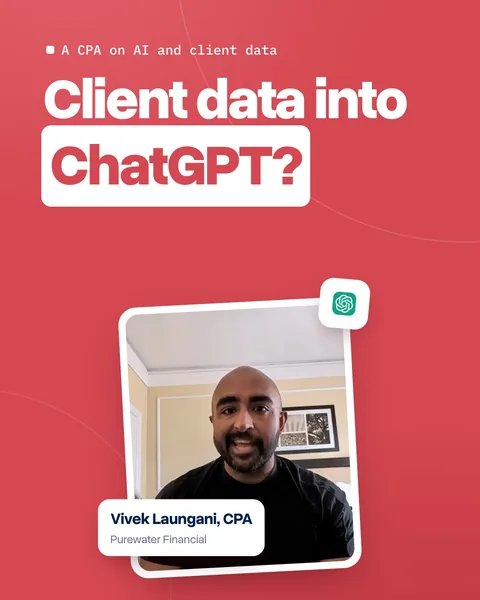
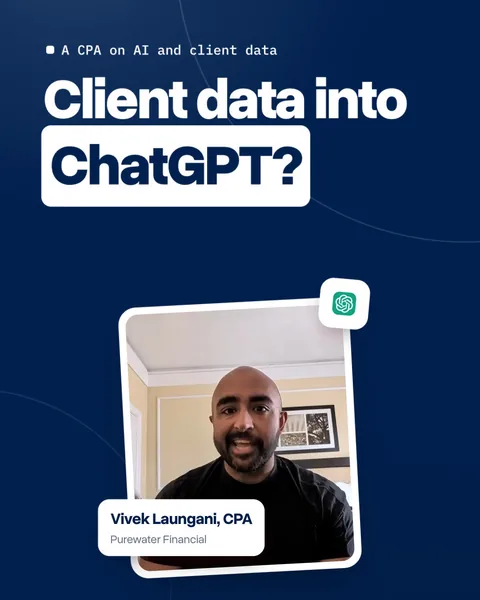
Customer stories: Vivek's and Keyonna's covers on navy
- The coral ground of both static covers is now the brand navy (#01204E).
  The white headline and eyebrow are unchanged; the words in the white
  boxes and Keyonna's play mark go from coral to navy. Arcs, glow,
  vignette and shadows carry over; the photos, name chips and the
  ChatGPT mark are untouched.
- scripts/home/cover_recolor.py does the recolor at build time, switched
  on per story with "cover_ink" in home_stories.py. The source covers
  are not modified.
- Jordan's cover, the hover loops and the modal videos are unchanged.

diff --git a/scripts/home/cover_recolor.py b/scripts/home/cover_recolor.py
@@ -1,0 +1,98 @@
+"""Recolor a story cover's coral ground to the brand navy, in place of the
+October covers' red (#D54851) art.
+
+Every pixel outside the speaker's photo is read as a mix of three things: the
+coral ground, white laid over it (the headline, the boxes, the arcs, the glow,
+the frame), and shade under it (the drop shadows and the vignette):
+
+    pixel = shade * (coral * (1 - white) + #fff * white)
+
+The same pixel is then rebuilt with navy for coral. White stays white, so the
+headline, the eyebrow and the frame are untouched; coral words in a white box
+come out navy on white; anti-aliasing, arcs, glow and shadows carry over. Pixels
+the mix cannot explain (the name chip's navy and grey text, the ChatGPT mark's
+green) are left as they are, and so is the photo inside the white frame.
+"""
+import numpy as np
+from PIL import Image, ImageDraw, ImageFilter
+
+CORAL = np.array([213, 72, 81], float)  # the covers' flat ground, sampled
+WHITE = np.array([255, 255, 255], float)
+INKS = {"navy": np.array([1, 32, 78], float)}  # --ink #01204E
+
+_A = np.stack([CORAL, WHITE - CORAL], 1)  # 3x2: pixel = u*coral + v*(white-coral)
+_PINV = np.linalg.pinv(_A)
+
+
+def _decompose(p):
+    """(shade, white, residual) per pixel; residual 99 where the mix is not physical."""
+    uv = np.einsum("hwc,kc->hwk", p, _PINV)
+    fit = np.einsum("hwk,ck->hwc", uv, _A)
+    res = np.sqrt(((p - fit) ** 2).mean(-1))
+    u = uv[..., 0]
+    a = uv[..., 1] / np.maximum(u, 1e-3)
+    # shadows read slightly below zero white; green and teal read as negative shade
+    ok = (u > 0.04) & (a > -0.3) & (a < 1.06)
+    return np.clip(u, 0, 1.2), np.clip(a, 0, 1), np.where(ok, res, 99)
+
+
+def _runs(line, min_len=6):
+    d = np.diff(np.concatenate([[0], line.astype(np.int8), [0]]))
+    s, e = np.nonzero(d == 1)[0], np.nonzero(d == -1)[0]
+    return [(a, b) for a, b in zip(s, e) if b - a >= min_len]
+
+
+def _fit(t, x):
+    """x = m*t + c, refitted without the points far off the first fit."""
+    t, x = np.asarray(t, float), np.asarray(x, float)
+    m, c = np.polyfit(t, x, 1)
+    keep = np.abs(x - (m * t + c)) < 3
+    return np.polyfit(t[keep], x[keep], 1)
+
+
+def _photo_mask(white, y0=900, band=(8, 40), pad=2):
+    """The (slightly rotated) photo inside the white frame, as the quad between
+    the frame's four inner edges. Each edge is a line fitted over the rows or
+    columns where both opposite bands of the frame are plain, away from the
+    name chip and the corner badge."""
+    h, w = white.shape
+    left, right, top, bottom = [], [], [], []
+    for y in range(y0, h):
+        r = _runs(white[y])
+        if len(r) == 2 and all(band[0] <= b - a <= band[1] for a, b in r) and r[1][0] - r[0][1] > 200:
+            left.append((y, r[0][1]))
+            right.append((y, r[1][0]))
+    for x in range(w):
+        r = _runs(white[y0:, x])
+        if len(r) == 2 and all(band[0] <= b - a <= band[1] for a, b in r) and r[1][0] - r[0][1] > 200:
+            top.append((x, r[0][1] + y0))
+            bottom.append((x, r[1][0] + y0))
+    if min(map(len, (left, right, top, bottom))) < 50:
+        raise ValueError("could not find the photo frame")
+    lv, rv = _fit(*zip(*left)), _fit(*zip(*right))   # x = m*y + c
+    th, bh = _fit(*zip(*top)), _fit(*zip(*bottom))   # y = m*x + c
+
+    def meet(v, hz):
+        y = (hz[0] * v[1] + hz[1]) / (1 - hz[0] * v[0])
+        return v[0] * y + v[1], y
+
+    quad = [meet(lv, th), meet(rv, th), meet(rv, bh), meet(lv, bh)]
+    cx, cy = np.mean(quad, 0)
+    quad = [(x + pad * np.sign(x - cx), y + pad * np.sign(y - cy)) for x, y in quad]
+    m = Image.new("L", (w, h), 0)
+    ImageDraw.Draw(m).polygon(quad, fill=255)
+    return np.asarray(m) > 0
+
+
+def recolor(img, ink="navy"):
+    """img: the 1080x1920 cover (PIL RGB). Returns the recolored cover."""
+    p = np.asarray(img.convert("RGB"), float)
+    u, a, res = _decompose(p)
+    white = p.min(-1) > 225
+    photo = _photo_mask(white)
+    # the corner badge overlaps the photo's corner: its play mark is coral too
+    near_white = np.asarray(Image.fromarray((white * 255).astype(np.uint8)).filter(ImageFilter.BoxBlur(20)), float) > 153
+    w = np.clip((14 - res) / 8, 0, 1) * (~photo | near_white)
+    new = u[..., None] * (INKS[ink] * (1 - a[..., None]) + WHITE * a[..., None])
+    out = p * (1 - w[..., None]) + new * w[..., None]
+    return Image.fromarray(np.clip(out, 0, 255).round().astype(np.uint8))

diff --git a/scripts/home/home_stories.py b/scripts/home/home_stories.py
@@ -12,7 +12,9 @@ For each story it writes into assets/testimonials/:
   <slug>-preview.mp4       the silent hover loop on the card: a 4:5 window of
                            the video, 576x720, a few seconds where they speak
   <slug>-cover-{480,960}   the cover art cropped to the card's 4:5, WebP and
-                           progressive JPEG
+                           progressive JPEG. With "cover_ink", the cover's coral
+                           ground is first recolored to that brand ink
+                           (cover_recolor.py); the source file is not changed
 
 The cover art and reels are 1080x1920 (9:16). The 4:5 crops start below the
 top band, where the October covers carry the retired PrivacyPal mark, so the
@@ -34,6 +36,9 @@ import sys
 
 from PIL import Image
 
+sys.path.insert(0, os.path.dirname(os.path.abspath(__file__)))
+from cover_recolor import recolor  # noqa: E402
+
 ROOT = os.path.dirname(os.path.dirname(os.path.dirname(os.path.abspath(__file__))))
 
 # cover_y / preview_y: top of the 1080x1350 (4:5) window in the 1080x1920 frame.
@@ -48,6 +53,7 @@ STORIES = {
             ("Reel 3 Scale It 9x16.mp4", "Scale it"),
         ],
         "cover": "Cover 2 Assurances Alone.jpg",
+        "cover_ink": "navy",   # the coral ground recolored to the brand navy
         "cover_y": 340,
         "preview": (0.4, 7.0),   # "AI allows us to work faster. However, the manual input..."
         "preview_y": 420,
@@ -60,6 +66,7 @@ STORIES = {
             ("Reel 3 Believe It 9x16.mp4", "Believe it"),
         ],
         "cover": "Cover 1 The Easiest Answer.jpg",
+        "cover_ink": "navy",
         "cover_y": 340,
         "preview": (0.0, 7.0),   # "Just being able to, for example, dump your client's data into ChatGPT"
         "preview_y": 250,
@@ -139,6 +146,8 @@ def build(slug, src, out, only):
         img = Image.open(cover).convert("RGB")
         if img.size != (1080, 1920):
             img = img.resize((1080, 1920), Image.LANCZOS)
+        if s.get("cover_ink"):
+            img = recolor(img, s["cover_ink"])
         y = s["cover_y"]
         crop = img.crop((0, y, 1080, y + 1350))
         for w in (960, 480):

diff --git a/README.md b/README.md
@@ -124,7 +124,10 @@ node scripts/brand/legacy-logos.js --logos-only                   # or --pack-on
   poster, duration) drive the modal too. `scripts/home/home_stories.py` builds the files in
   `assets/testimonials/` from one folder per person (default `~/Desktop/testimonials`): the
   720x1280 video, its poster, a silent 4:5 hover loop and the 4:5 cover crops (which start
-  below the retired logo on the October covers). It needs `ffmpeg` and Pillow. A story told
+  below the retired logo on the October covers). Vivek's and Keyonna's covers have a coral
+  ground in the source art; the build recolors it to the brand navy (`cover_ink` in the
+  script, `scripts/home/cover_recolor.py`), keeping the white headline, the arcs and the
+  shadows, and leaving the photo as it is. It needs `ffmpeg`, Pillow and NumPy. A story told
   in several reels (Vivek's and Keyonna's, three each) is joined into one video in playing
   order; the script prints each reel's start time for the card's `data-chapters`, which
   drives the part list in the modal and the marks on its progress bar. A link to
